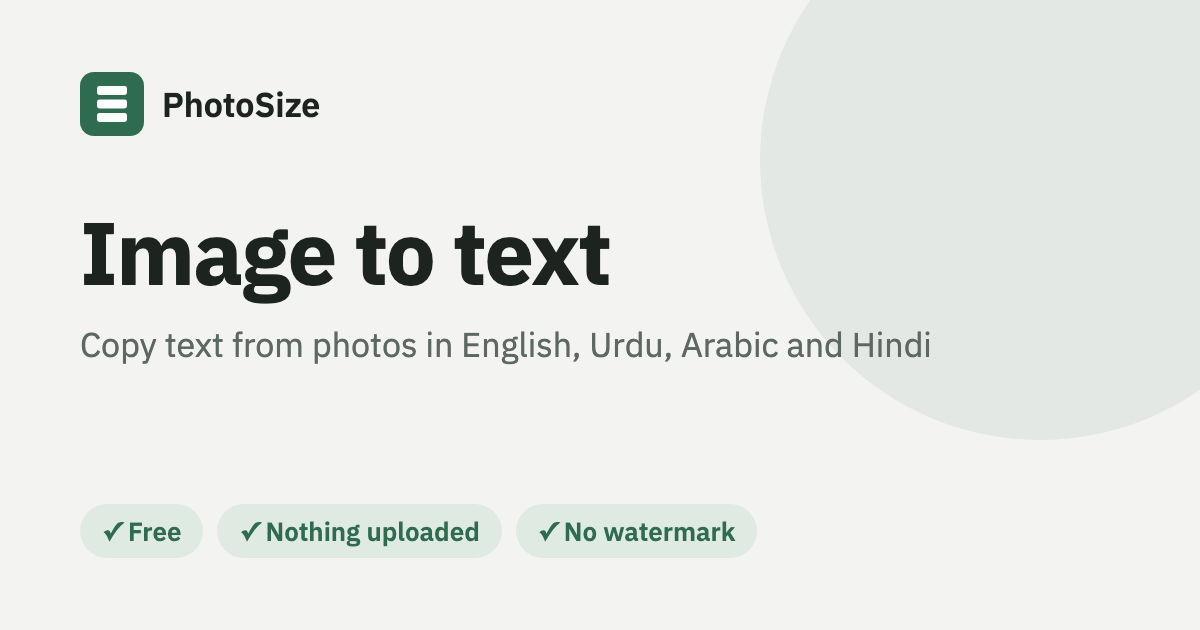
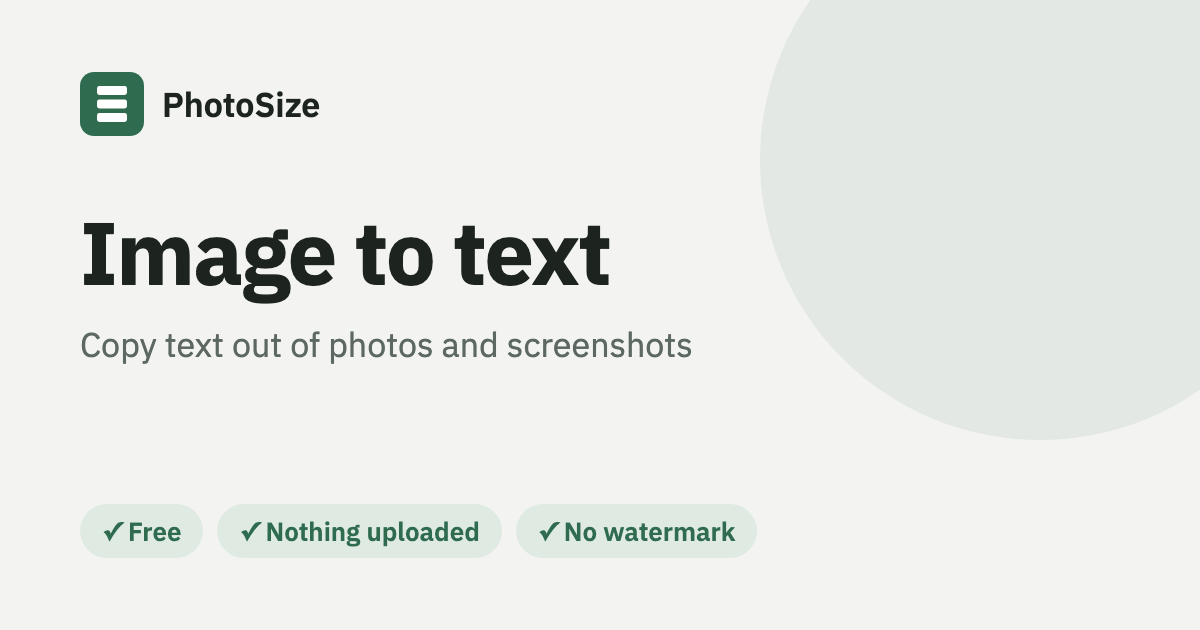
Language-neutral copy: no Urdu/Arabic/Hindi mentions in headings, tool descriptions, page titles, search descriptions, FAQs, social images, llms.txt or README; the support itself and its pickers stay

Changed region(s): [[0.185, 0.5127, 0.7708, 0.573]]

diff --git a/src/seo/pages.ts b/src/seo/pages.ts
@@ -136,10 +136,10 @@ export const TOOL_PAGES: Page[] = [
   },
   {
     path: '/image-to-text', route: 'text', og: 'text', priority: 0.7,
-    title: 'Image to Text – Urdu, Arabic, Hindi & English OCR, Free',
-    description: 'Copy text from a photo or screenshot in English, Urdu, Arabic or Hindi. Free OCR that runs on your device, so private messages and documents stay private.',
-    h1: 'Image to text (Urdu, Arabic, Hindi, English)',
-    summary: 'Copy text reads the words in a photo or screenshot and gives you text you can copy, edit or forward. It reads English, Urdu, Arabic and Hindi, and works on your own device.',
+    title: 'Image to Text – Copy Text From Photos, Free OCR',
+    description: 'Copy text from a photo or screenshot in seconds. Free OCR that runs on your device, so private messages and documents stay private.',
+    h1: 'Image to text',
+    summary: 'Copy text reads the words in a photo or screenshot and gives you text you can copy, edit or forward. It works on your own device, so nothing is uploaded.',
     steps: [
       'Add or paste a photo or screenshot.',
       'Choose the language of the text.',
@@ -147,7 +147,7 @@ export const TOOL_PAGES: Page[] = [
       'Copy the text, check it and fix anything it misread.',
     ],
     faqs: [
-      { q: 'Can I copy Urdu text from an image?', a: 'Yes. Choose Urdu. Printed Urdu in Naskh-style fonts reads best; Nastaliq calligraphy and handwriting are harder and may need correcting.' },
+      { q: 'What kind of text reads best?', a: 'Clear printed text in a sharp, well-lit photo or a screenshot. Handwriting and decorative fonts are harder and may need correcting.' },
       { q: 'Does it work offline?', a: 'Yes, after a language has been used once it is kept on your device.' },
       PRIVATE, FREE,
     ],
@@ -206,17 +206,17 @@ export const TOOL_PAGES: Page[] = [
   },
   {
     path: '/quote-card-maker', route: 'cards', og: 'cards', priority: 0.7,
-    title: 'Quote Card Maker – Urdu & Arabic Text on Image, Free',
-    description: 'Make quote, poetry and announcement cards with proper Urdu Nastaliq and Arabic fonts for WhatsApp Status and Instagram. Free, no watermark.',
-    h1: 'Quote card maker (Urdu and Arabic ready)',
-    summary: 'Cards turns a quote, a line of poetry, a greeting or an announcement into a clean image for WhatsApp Status or Instagram, with proper Urdu Nastaliq and Arabic Naskh fonts that join letters correctly.',
+    title: 'Quote Card Maker – Text on Image for Status, Free',
+    description: 'Make quote, poetry and announcement cards for WhatsApp Status and Instagram in a few taps. Free, no sign-up, no watermark.',
+    h1: 'Quote card maker',
+    summary: 'Cards turns a quote, a line of poetry, a greeting or an announcement into a clean image for WhatsApp Status or Instagram.',
     steps: [
       'Type or paste your text, and a second line such as a translation or source if you want one.',
       'Pick a style and a size: WhatsApp Status, 4:5 post or square.',
       'Download or share the card.',
     ],
     faqs: [
-      { q: 'Why does Urdu text break apart in other apps?', a: 'Many editors don\'t use a font or text layout that joins Urdu and Arabic letters. Cards uses Noto Nastaliq Urdu and Noto Naskh Arabic and sets the text right to left.' },
+      { q: 'Can I use my group or business name?', a: 'Yes. Put it in the footer and it appears small at the bottom of every card.' },
       { q: 'What sizes can I make?', a: 'WhatsApp Status (1080 × 1920), a 4:5 post (1080 × 1350) and square (1080 × 1080).' },
       FREE,
     ],
@@ -224,7 +224,7 @@ export const TOOL_PAGES: Page[] = [
   {
     path: '/quiz-cards', route: 'quiz', og: 'quiz', priority: 0.6,
     title: 'Quiz Cards Maker – Questions as Images for WhatsApp',
-    description: 'Paste questions and answers once and get numbered quiz cards to post in a WhatsApp group, with the answers at the end. Urdu and Arabic supported.',
+    description: 'Paste questions and answers once and get numbered quiz cards to post in a WhatsApp group, with the answers at the end. Free, no watermark.',
     h1: 'Quiz cards for WhatsApp groups',
     summary: 'Quiz cards turns a list of questions and answers into numbered images to post one by one in a class or study group, with the answers together at the end, after each question or on the same card.',
     steps: [
@@ -234,7 +234,7 @@ export const TOOL_PAGES: Page[] = [
     ],
     faqs: [
       { q: 'How do I write the questions?', a: 'Put Q: before each question and A: before its answer, or put each question on its own line with the answer below and a blank line between them.' },
-      { q: 'Can I write in Urdu?', a: 'Yes. Urdu and Arabic are set right to left in proper fonts.' },
+      { q: 'Can I put the answer on the same card?', a: 'Yes. Choose whether answers come all together at the end, after each question or on the same card.' },
       FREE,
     ],
   },
@@ -258,7 +258,7 @@ export const TOOL_PAGES: Page[] = [
   {
     path: '/add-watermark-to-photos', route: 'watermark', og: 'watermark', priority: 0.6,
     title: 'Add Watermark to Photos in Bulk – Logo or Text, Free',
-    description: 'Put your logo or name on many photos at once, in a corner, the centre or tiled. Photos keep full size. Urdu and Arabic text supported. Nothing uploaded.',
+    description: 'Put your logo or name on many photos at once, in a corner, the centre or tiled. Photos keep full size and format. Nothing is uploaded.',
     h1: 'Add a watermark to many photos at once',
     summary: 'Watermark places your logo, your name or both on many photos in one go, in the same spot on each, while keeping the photos at full size and in their original format.',
     steps: [
@@ -268,7 +268,7 @@ export const TOOL_PAGES: Page[] = [
     ],
     faqs: [
       { q: 'Does it reduce photo quality?', a: 'No. Photos keep their size and format; only the watermark is added.' },
-      { q: 'Can the watermark be in Urdu or Arabic?', a: 'Yes. Text in Urdu or Arabic is set right to left with proper fonts.' },
+      { q: 'Is my logo saved for next time?', a: 'Yes, in this browser only, so you don\'t have to add it again.' },
       PRIVATE, FREE,
     ],
   },

diff --git a/src/tools/QuizTool.tsx b/src/tools/QuizTool.tsx
@@ -68,7 +68,7 @@ export function QuizTool({ toast, show }: Props) {
     <main className="wrap">
       <div className="tool-head">
         <h1>{pageH1('Quiz cards')}</h1>
-        <p>Type or paste your questions and answers once and get a numbered set of cards to post in your group, with the answers last. Urdu and Arabic work too.</p>
+        <p>Type or paste your questions and answers once and get a numbered set of cards to post in your group, with the answers last.</p>
       </div>
       <div className="grid">
         <section className="panel" aria-label="Questions">
@@ -76,7 +76,7 @@ export function QuizTool({ toast, show }: Props) {
             <label className="label" htmlFor="quiz-text">Questions and answers</label>
             <textarea id="quiz-text" dir="auto" rows={10} value={d.text} onChange={e => set({ text: e.target.value })} />
             <p className="hint">
-              Write <code>Q:</code> before each question and <code>A:</code> before its answer (or سوال / جواب), or put each question on its own line with the answer below and a blank line between them.
+              Write <code>Q:</code> before each question and <code>A:</code> before its answer, or put each question on its own line with the answer below and a blank line between them.
               {' '}{qs.length ? `${qs.length} question${qs.length > 1 ? 's' : ''} found.` : 'No questions found yet.'}
             </p>
           </div>

diff --git a/src/seo/render.ts b/src/seo/render.ts
@@ -112,7 +112,7 @@ export function robots(c: SiteConfig) {
 export function llmsTxt(c: SiteConfig, full = false) {
   const item = (p: Page) => `- [${p.h1}](${c.url}${p.path}): ${p.summary}`;
   const detail = (p: Page) => `## ${p.h1}\n\nURL: ${c.url}${p.path}\n\n${p.summary}\n\nHow to use it:\n${p.steps.map((s, i) => `${i + 1}. ${s}`).join('\n')}\n\n${p.faqs.map(f => `Q: ${f.q}\nA: ${f.a}`).join('\n\n')}\n`;
-  const intro = `# ${c.name}\n\n> Free image tools that run entirely in the browser: nothing is uploaded, no sign-up, no watermark, no limits, and they work offline once installed. Made for sharing on WhatsApp and Instagram and for uploading photos, signatures and documents to online forms. English, Urdu, Arabic and Hindi text are supported where text is involved.\n\n`;
+  const intro = `# ${c.name}\n\n> Free image tools that run entirely in the browser: nothing is uploaded, no sign-up, no watermark, no limits, and they work offline once installed. Made for sharing on WhatsApp and Instagram and for uploading photos, signatures and documents to online forms.\n\n`;
   if (full) return intro + TOOL_PAGES.map(detail).join('\n') + '\n' + KB_PAGES.slice(0, 1).map(detail).join('');
   return intro +
     `## Tools\n\n${TOOL_PAGES.map(item).join('\n')}\n\n` +

diff --git a/src/App.tsx b/src/App.tsx
@@ -371,7 +371,7 @@ export default function App() {
     ({ key, label, hint, group, href: pathOf(key as Exclude<typeof route, 'info'>), active: route === key });
   const tools: ToolLink[] = [
     T('stack', 'Stacker', 'Stack images and PDF slides into tall images, grids or carousels', 'Share'),
-    T('cards', 'Cards', 'Quote, poem and announcement cards, Urdu and Arabic ready', 'Share'),
+    T('cards', 'Cards', 'Quote, poem and announcement cards for Status and posts', 'Share'),
     T('quiz', 'Quiz cards', 'Numbered question cards with the answers last', 'Share'),
     T('qr', 'QR codes', 'WhatsApp, WiFi and contact codes as posters, never expire', 'Share'),
     T('watermark', 'Watermark', 'Your logo or name on many photos at once', 'Share'),

diff --git a/src/tools/TextTool.tsx b/src/tools/TextTool.tsx
@@ -87,7 +87,7 @@ export function TextTool({ intakeRef, toast, show }: Props) {
     <main className="wrap">
       <div className="tool-head">
         <h1>{pageH1('Copy text')}</h1>
-        <p>Get the text out of photos and screenshots, in English, Urdu, Arabic or Hindi, so you can copy, edit or forward it. Read on this device; nothing is uploaded.</p>
+        <p>Get the text out of photos and screenshots so you can copy, edit or forward it. Read on this device; nothing is uploaded.</p>
       </div>
       <div className="grid">
         <section className="panel" aria-label="Images">

diff --git a/src/tools/CardsTool.tsx b/src/tools/CardsTool.tsx
@@ -67,7 +67,7 @@ export function CardsTool({ toast, show }: Props) {
     <main className="wrap">
       <div className="tool-head">
         <h1>{pageH1('Cards')}</h1>
-        <p>Make a quote, poem or announcement card for WhatsApp Status or Instagram, with proper Arabic and Urdu lettering. Nothing is uploaded.</p>
+        <p>Make a quote, poem or announcement card for WhatsApp Status or Instagram. Nothing is uploaded.</p>
       </div>
       <div className="grid">
         <section className="panel" aria-label="Card text and style">

diff --git a/README.md b/README.md
@@ -6,7 +6,7 @@ The Stacker (home page): Stack images or PDF pages into tall images, grids or si
 
 Tools (all in the browser, nothing uploaded):
 
-- **Stacker**: stack images or PDF slides into tall images, grids or side-by-side strips; groups, trim, captions (Urdu/Arabic), numbering, watermark, blur with automatic detection of phone numbers and emails, screenshot joining, WhatsApp-safe sizing, Instagram carousel slicing, HD re-rendering of PDF pages.
+- **Stacker**: stack images or PDF slides into tall images, grids or side-by-side strips; groups, trim, captions, numbering, watermark, blur with automatic detection of phone numbers and emails, screenshot joining, WhatsApp-safe sizing, Instagram carousel slicing, HD re-rendering of PDF pages.
 - **Fit to size**: exact KB window and pixel size for exam, bank and visa portals, with sourced presets.
 - **Scan**: phone photos of paper to clean, straightened pages and an A4 PDF under a size limit.
 - **Passport photo**: guided framing to country specs, background check, digital file and 6×4 print sheet.
